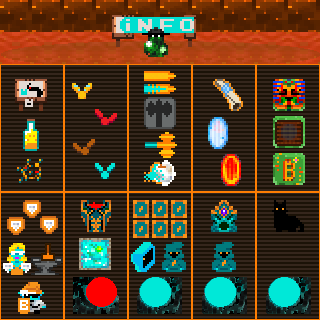
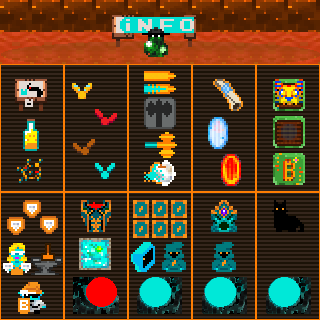
A lot of tweaks
A lot of tweaks

Changed region(s): [[0.8438, 0.25, 0.9688, 0.3438]]

diff --git a/index.html b/index.html
@@ -1839,6 +1839,9 @@ let puzzleBoulders = [];     // {x,y}
 let puzzleHeartFramers = []; // array of {x,y} — collect ALL to open chest
 let puzzleChest = null;      // {x,y}
 
+let puzzleTotalHearts = 0;   // Initial number of hearts (set once)
+let puzzleCollectedHearts = 0; // How many picked up so far
+
 let farmSpot = null;
 
 let puzzleReturnPos = null;
@@ -3135,8 +3138,8 @@ function showSkillTree() {
         html += `</div>`;
     } else {
         const perks = {
-            druid: {10:'> Thorns: Enemies lose ~0.25 HP on attack',20:'> Ensnare: Entagle enemies',30:'> Thorns: Enemies lose ~0.5 HP on attack',40:'> Shrine regenerate HP +2',50:'> Farm unlocked +1 Cool ROI'},
-            degen: {10:'> +1 Cool ROI',20:'> +1 Cool ROI',30:'> +1 Cool ROI',40:'> +1 Cool ROI',50:'> Soul charges +2 every 2 steps'}
+            druid: {10:'> Thorns: Enemies lose ~0.25 HP on attack',20:'> Ensnare: Entagle enemies',30:'> Thorns: Enemies lose ~0.5 HP on attack',40:'> Shrine regenerate HP +2',50:'> Farm unlocked +1 Mask of ROI'},
+            degen: {10:'> +1 Mask of ROI',20:'> +1 Mask of ROI',30:'> +1 Mask of ROI',40:'> +1 Mask of ROI',50:'> Soul charges +2 every 2 steps'}
         };
         html += `<div style="font-size:28px;padding:30px;background:#000;border:4px solid #f7931a;border-radius:0;box-shadow:0 0 20px #f7931a;margin:40px 0;text-align:center;color:#f7931a">`;
         html += `<strong>${perks[playerClass][pendingSkillTreeLevel]}</strong>`;
@@ -4006,6 +4009,7 @@ function initMap() {
         if (inHideout) {
             currentTheme = 'hideout';
             updateSnowState();
+            stopFireplaceAmbience(); // Stop ambience in hideout
             document.documentElement.style.setProperty('--text-color', '#ff8c00');
             document.querySelectorAll('#whale-log, #whale-hash-ids a, #battle-log, #battle-log textarea, #inventory, #floor-indicator, #sats-calc').forEach(el => {
                 el.style.color = '#ff8c00';
@@ -4664,6 +4668,7 @@ if (!inHideout && (floor === 1 || Math.random() < 0.20)) {
 }
 
 // Cool ROI drop – 2.5% chance on any normal floor (not hideout or puzzle)
+// Also called "Mask of ROI"
 if (!inHideout && !inPuzzleRoom && Math.random() < 0.025) {
     let attempts = 50;
     do {
@@ -4671,7 +4676,7 @@ if (!inHideout && !inPuzzleRoom && Math.random() < 0.025) {
         const y = Math.floor(Math.random() * H);
         if (map[y][x] === 0 && !(x === p.x && y === p.y)) {
             map[y][x] = 30; // new tile ID for Cool ROI
-            logBattleEvent(`Floor ${floor} - A magical Cool ROI bean appears!`);
+            logBattleEvent(`Floor ${floor} - An ancient Mask of ROI appears!`);
             break;
         }
         attempts--;
@@ -4697,33 +4702,41 @@ if (!inHideout && !inPuzzleRoom && puzzleStaticCanvas === null && Math.random() 
             catPos = {x, y};
             catVisible = false; // Start invisible, fade in
             catAnimStart = performance.now();
+            logBattleEvent(`Floor ${floor} - A black cat lurks in the shadows...`);
             break;
         }
         attempts--;
     } while (attempts > 0);
+} else {
+    // Safety clear if in special area
+    catPos = null;
+    catVisible = false;
 }
 
-        // Sandworm spawn: 25% chance once per desert streak (not puzzle/hideout)
-        if (currentTheme === 'desert' && !desertStreakHasSandworm && Math.random() < 0.25 && !inPuzzleRoom && !inHideout) {
-            // Find random floor tile far from player
-            let attempts = 100;
-            let sx, sy;
-            do {
-                sx = Math.floor(Math.random() * W);
-                sy = Math.floor(Math.random() * H);
-            } while (attempts-- > 0 && (map[sy][sx] !== 0 || Math.abs(sx - p.x) + Math.abs(sy - p.y) < 8));
+// Sandworm spawn: 25% chance once per desert streak (NEVER in puzzle/hideout)
+if (currentTheme === 'desert' && !desertStreakHasSandworm && Math.random() < 0.25 && !inPuzzleRoom && !inHideout) {
+    let attempts = 100;
+    let sx, sy;
+    do {
+        sx = Math.floor(Math.random() * W);
+        sy = Math.floor(Math.random() * H);
+    } while (attempts-- > 0 && (map[sy][sx] !== 0 || Math.abs(sx - p.x) + Math.abs(sy - p.y) < 8));
 
-            if (attempts > 0) {
-                sandworm = {
-                    x: sx, y: sy,
-                    currentX: sx * S, currentY: sy * S,
-                    hp: 50,
-                    nextBurrowTime: performance.now() + 3000 + Math.random() * 4000 // first burrow 3-7s
-                };
-                desertStreakHasSandworm = true;
-                logBattleEvent(`Floor ${floor} - A Sandworm emerges from the dunes!`);
-            }
-        }
+    if (attempts > 0) {
+        sandworm = {
+            x: sx, y: sy,
+            currentX: sx * S, currentY: sy * S,
+            hp: 50,
+            nextBurrowTime: performance.now() + 3000 + Math.random() * 4000
+        };
+        desertStreakHasSandworm = true;
+        logBattleEvent(`Floor ${floor} - A Sandworm emerges from the dunes!`);
+    }
+} else {
+    // Explicit clear in non-desert or special areas
+    sandworm = null;
+    desertStreakHasSandworm = false; // Reset streak if leaving desert
+}
 
 // Initialize dangerous areas array for spells
 dangerousAreas = [];
@@ -6876,6 +6889,12 @@ if (map[ny][nx] === 12 && !inHideout) {
     }
 
     inHideout = true;
+    
+catPos = null;
+catVisible = false;
+sandworm = null;
+desertStreakHasSandworm = false;
+    
     initMap();  // this actually switches to hideout map/theme
     sandwormBurrowPaused = true; // pause burrow in hideout
     needsRedraw = true;  // force immediate redraw
@@ -6959,6 +6978,12 @@ camera.y = 0;
 needsRedraw = true;
 
 inHideout = false;
+
+// Restart ambience if returning to regular hell
+    if (currentTheme === 'hell' && !snowyHellActive) {
+        startFireplaceAmbience();
+    }
+
 document.getElementById('floor-indicator').textContent = `Floor ${floor}`;
 updateFogMap(p.x, p.y);
 needsRedraw = true;
@@ -7099,9 +7124,9 @@ if (!p.farmLocked) {
     // Can only plant if player has at least 1 Cool ROI
     if (p.coolROI < 1) {
         const floorIndicator = document.getElementById('floor-indicator');
-        floorIndicator.textContent = `Farm: Need Cool ROI!`;
+        floorIndicator.textContent = `Farm: Need Mask of ROI!`;
         setTimeout(() => floorIndicator.textContent = `Floor ${floor}`, 3000);
-        logBattleEvent(`Floor ${floor} - Farm locked — find a Cool ROI first!`);
+        logBattleEvent(`Floor ${floor} - Farm locked — find an ancient Mask of ROI first!`);
         return;
     }
 
@@ -7167,7 +7192,7 @@ if (map[ny][nx] === 30) {
     p.coolROI++;
     map[ny][nx] = 0;
     playWebAudioSound(sounds.pickup);
-    logBattleEvent(`Floor ${floor} - Cool ROI collected! (${p.coolROI} total)`);
+    logBattleEvent(`Floor ${floor} - An ancient Mask of ROI collected! (${p.coolROI} total)`);
     // If we have an active farm, automatically place one if possible
     if (p.farmLocked && p.farmROI === undefined) p.farmROI = 0; // init if needed
     if (p.farmLocked) p.farmROI++;
@@ -7393,14 +7418,13 @@ if (inPuzzleRoom) {
         puzzleHeartFramers.splice(heartIndex, 1);
         playWebAudioSound(sounds.pickup);
 
-        const totalHearts = puzzleHeartFramers.length + 1; // +1 because we just picked one up
-        const collected = totalHearts - puzzleHeartFramers.length;
+        puzzleCollectedHearts++; // Increment collected
 
-        logBattleEvent(`Heart Key ${collected}/${totalHearts} collected!`);
+        logBattleEvent(`Heart Key ${puzzleCollectedHearts}/${puzzleTotalHearts} collected!`);
         needsRedraw = true;
     }
 
-    // Step on chest when all hearts are collected
+    // Step on chest when all hearts collected
     if (puzzleHeartFramers.length === 0 && puzzleChest && p.x === puzzleChest.x && p.y === puzzleChest.y) {
         finishPuzzleRoom();
     }
@@ -10644,7 +10668,7 @@ case 'reset':
         addTerminalLineToContent('Type "help" for help.');
         break;
     }
-
+    puzzleCollectedHearts = 0;
     addTerminalLineToContent('Trial is reset!');
     addTerminalLineToContent('Type exit or press start on the gamepad.');
     addTerminalLineToContent('_____________________');
@@ -11605,9 +11629,14 @@ F.L.L.L.L.L..#
 
 function startPuzzleRoom() {
     inPuzzleRoom = true;
+catPos = null;
+catVisible = false;
+sandworm = null;
+desertStreakHasSandworm = false;
     puzzleReturnPos = { x: p.x, y: p.y };
     puzzlePreviousTheme = currentTheme;
     enemies = [];
+    stopFireplaceAmbience(); // Stop ambience in puzzle rooms
     // Kill ALL enemies instantly (including invisible Cursed Trader) — ensures death effects/drops if any carry over
     enemies.forEach(e => e.hp = 0);
     isFetchingTxs = true;
@@ -11729,6 +11758,9 @@ if (map[y][x] === 27) {
         }
     });
 
+puzzleTotalHearts = puzzleHeartFramers.length;
+puzzleCollectedHearts = 0; // safety reset
+
     // UI
     document.getElementById('floor-indicator').textContent =
         floor >= 30 ? 'LEGENDARY TRIAL' :
@@ -11823,6 +11855,11 @@ if (rainNoiseSource) {
     }
 }
 
+// Restart ambience if back to regular hell
+if (currentTheme === 'hell' && !snowyHellActive) {
+    startFireplaceAmbience();
+}
+
     // Restore music without triggering full initMap reset
     if (!musicMuted && !inPuzzleRoom) {
         musicManager.play(currentTheme);  // play the restored theme directly
@@ -11849,6 +11886,9 @@ if (rainNoiseSource) {
     puzzleCurrentLayout = null;  // ← NEW: prevents reusing old layout on next floor
     puzzleStaticCanvas = null;
     puzzleStaticCtx = null;
+
+puzzleTotalHearts = 0;
+puzzleCollectedHearts = 0;
 
     // Stairs appear under player
     exit = { x: p.x, y: p.y };
@@ -12127,8 +12167,11 @@ window.lastSideQuestType = null;
 
     infoSignActive = false;
     bountyBoardActive = false;
-    
+    infoGracePeriod = false;
     tileVariantMap = [];
+
+puzzleTotalHearts = 0;
+puzzleCollectedHearts = 0;
 
     fireplaceNoiseSource = null;
     fireplaceAmbienceTimer = null;
@@ -12203,6 +12246,11 @@ window.spokenUniques = new Set();
 window.breakReminderSpoken = false;
 
     sandwormBurrowPaused = false; // pause burrow timer in special areas
+
+catPos = null;
+catVisible = false;
+sandworm = null;
+desertStreakHasSandworm = false;
 
     lastMessageTime = 0;  
     redMazeSavedMuteState = null; 
